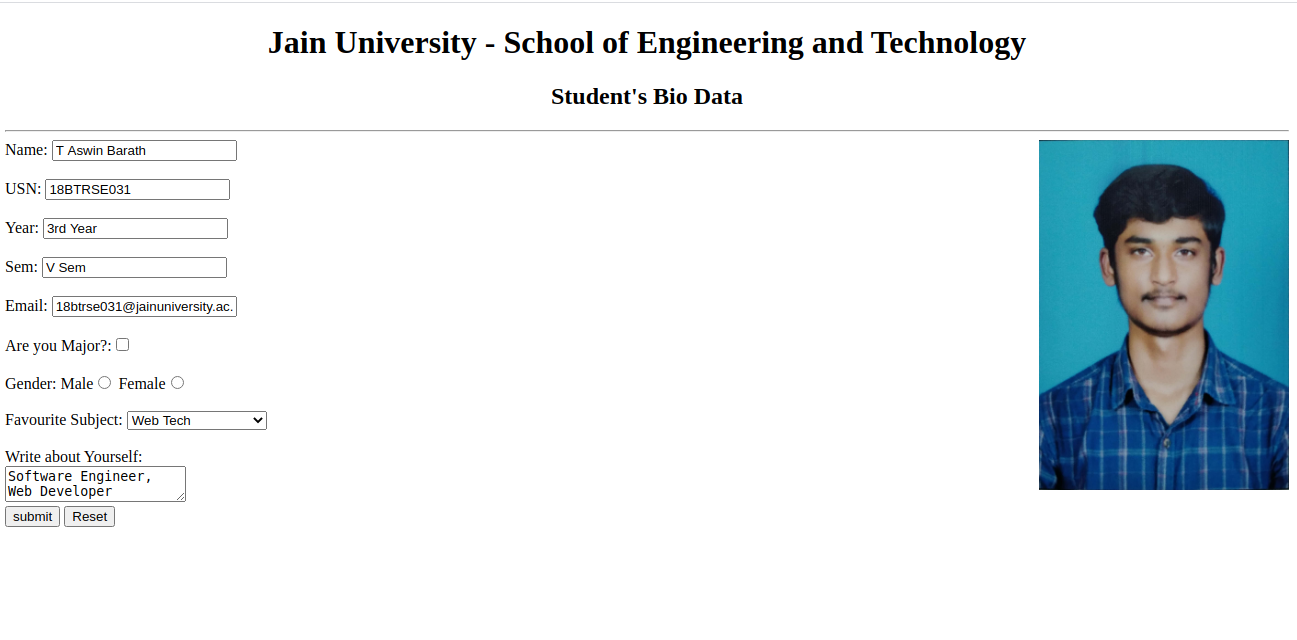
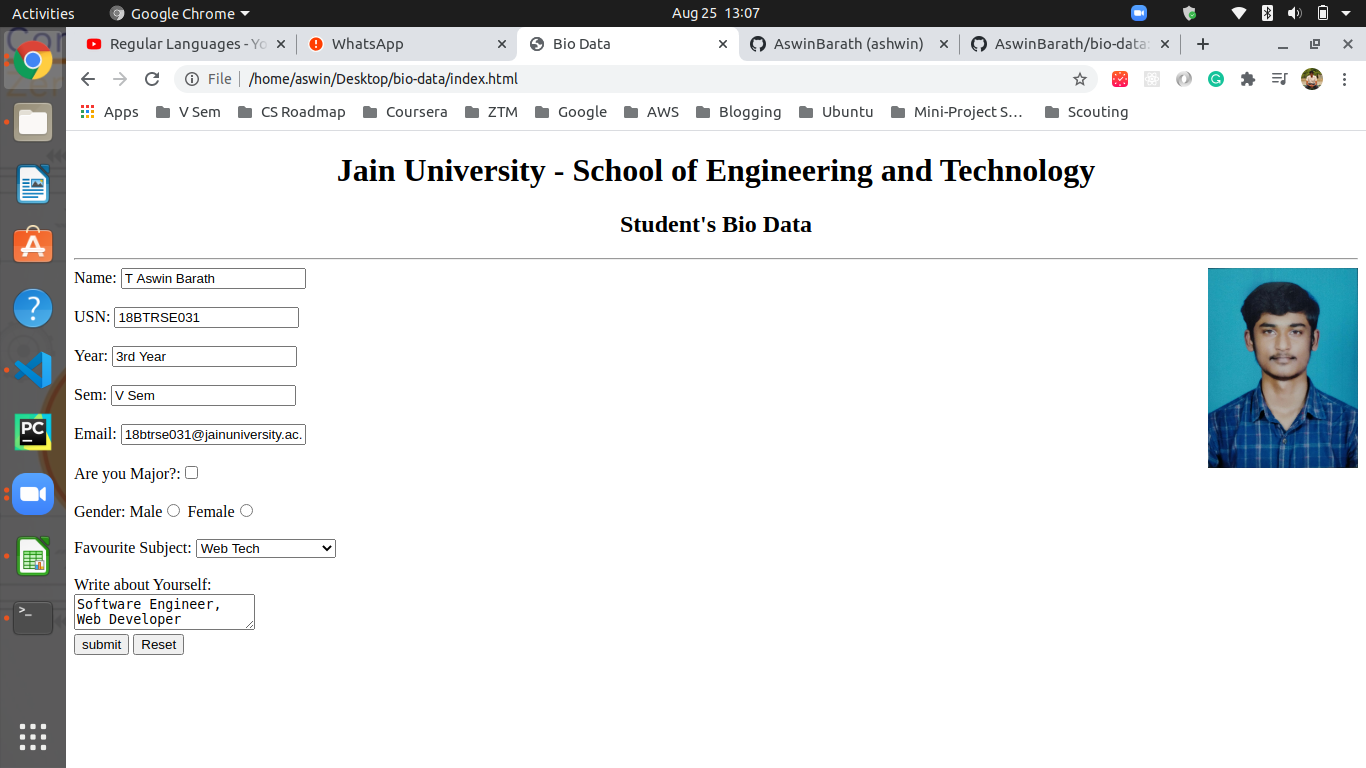
Update README.md

Changed region(s): [[0.0, 0.0, 1.0, 1.0], [0.4318, 0.2812, 0.6168, 0.3125], [0.2159, 0.6875, 0.2467, 0.7188]]

diff --git a/index.html b/index.html
@@ -11,7 +11,7 @@
         <h2>Student's Bio Data</h2>
     </center>
     <hr>
-    <img src="image/photo.jpg" alt="Error loading the image" width="250" height="350" style="float:right">
+    <img src="image/photo.jpg" alt="Error loading the image" width="150" height="200" style="float:right">
     <form>
         <div>Name:          <input type="text" name"myName" value = "T Aswin Barath"></div><br>
         <div>USN:           <input type="text" name"myUSN" value = "18BTRSE031"></div><br>
